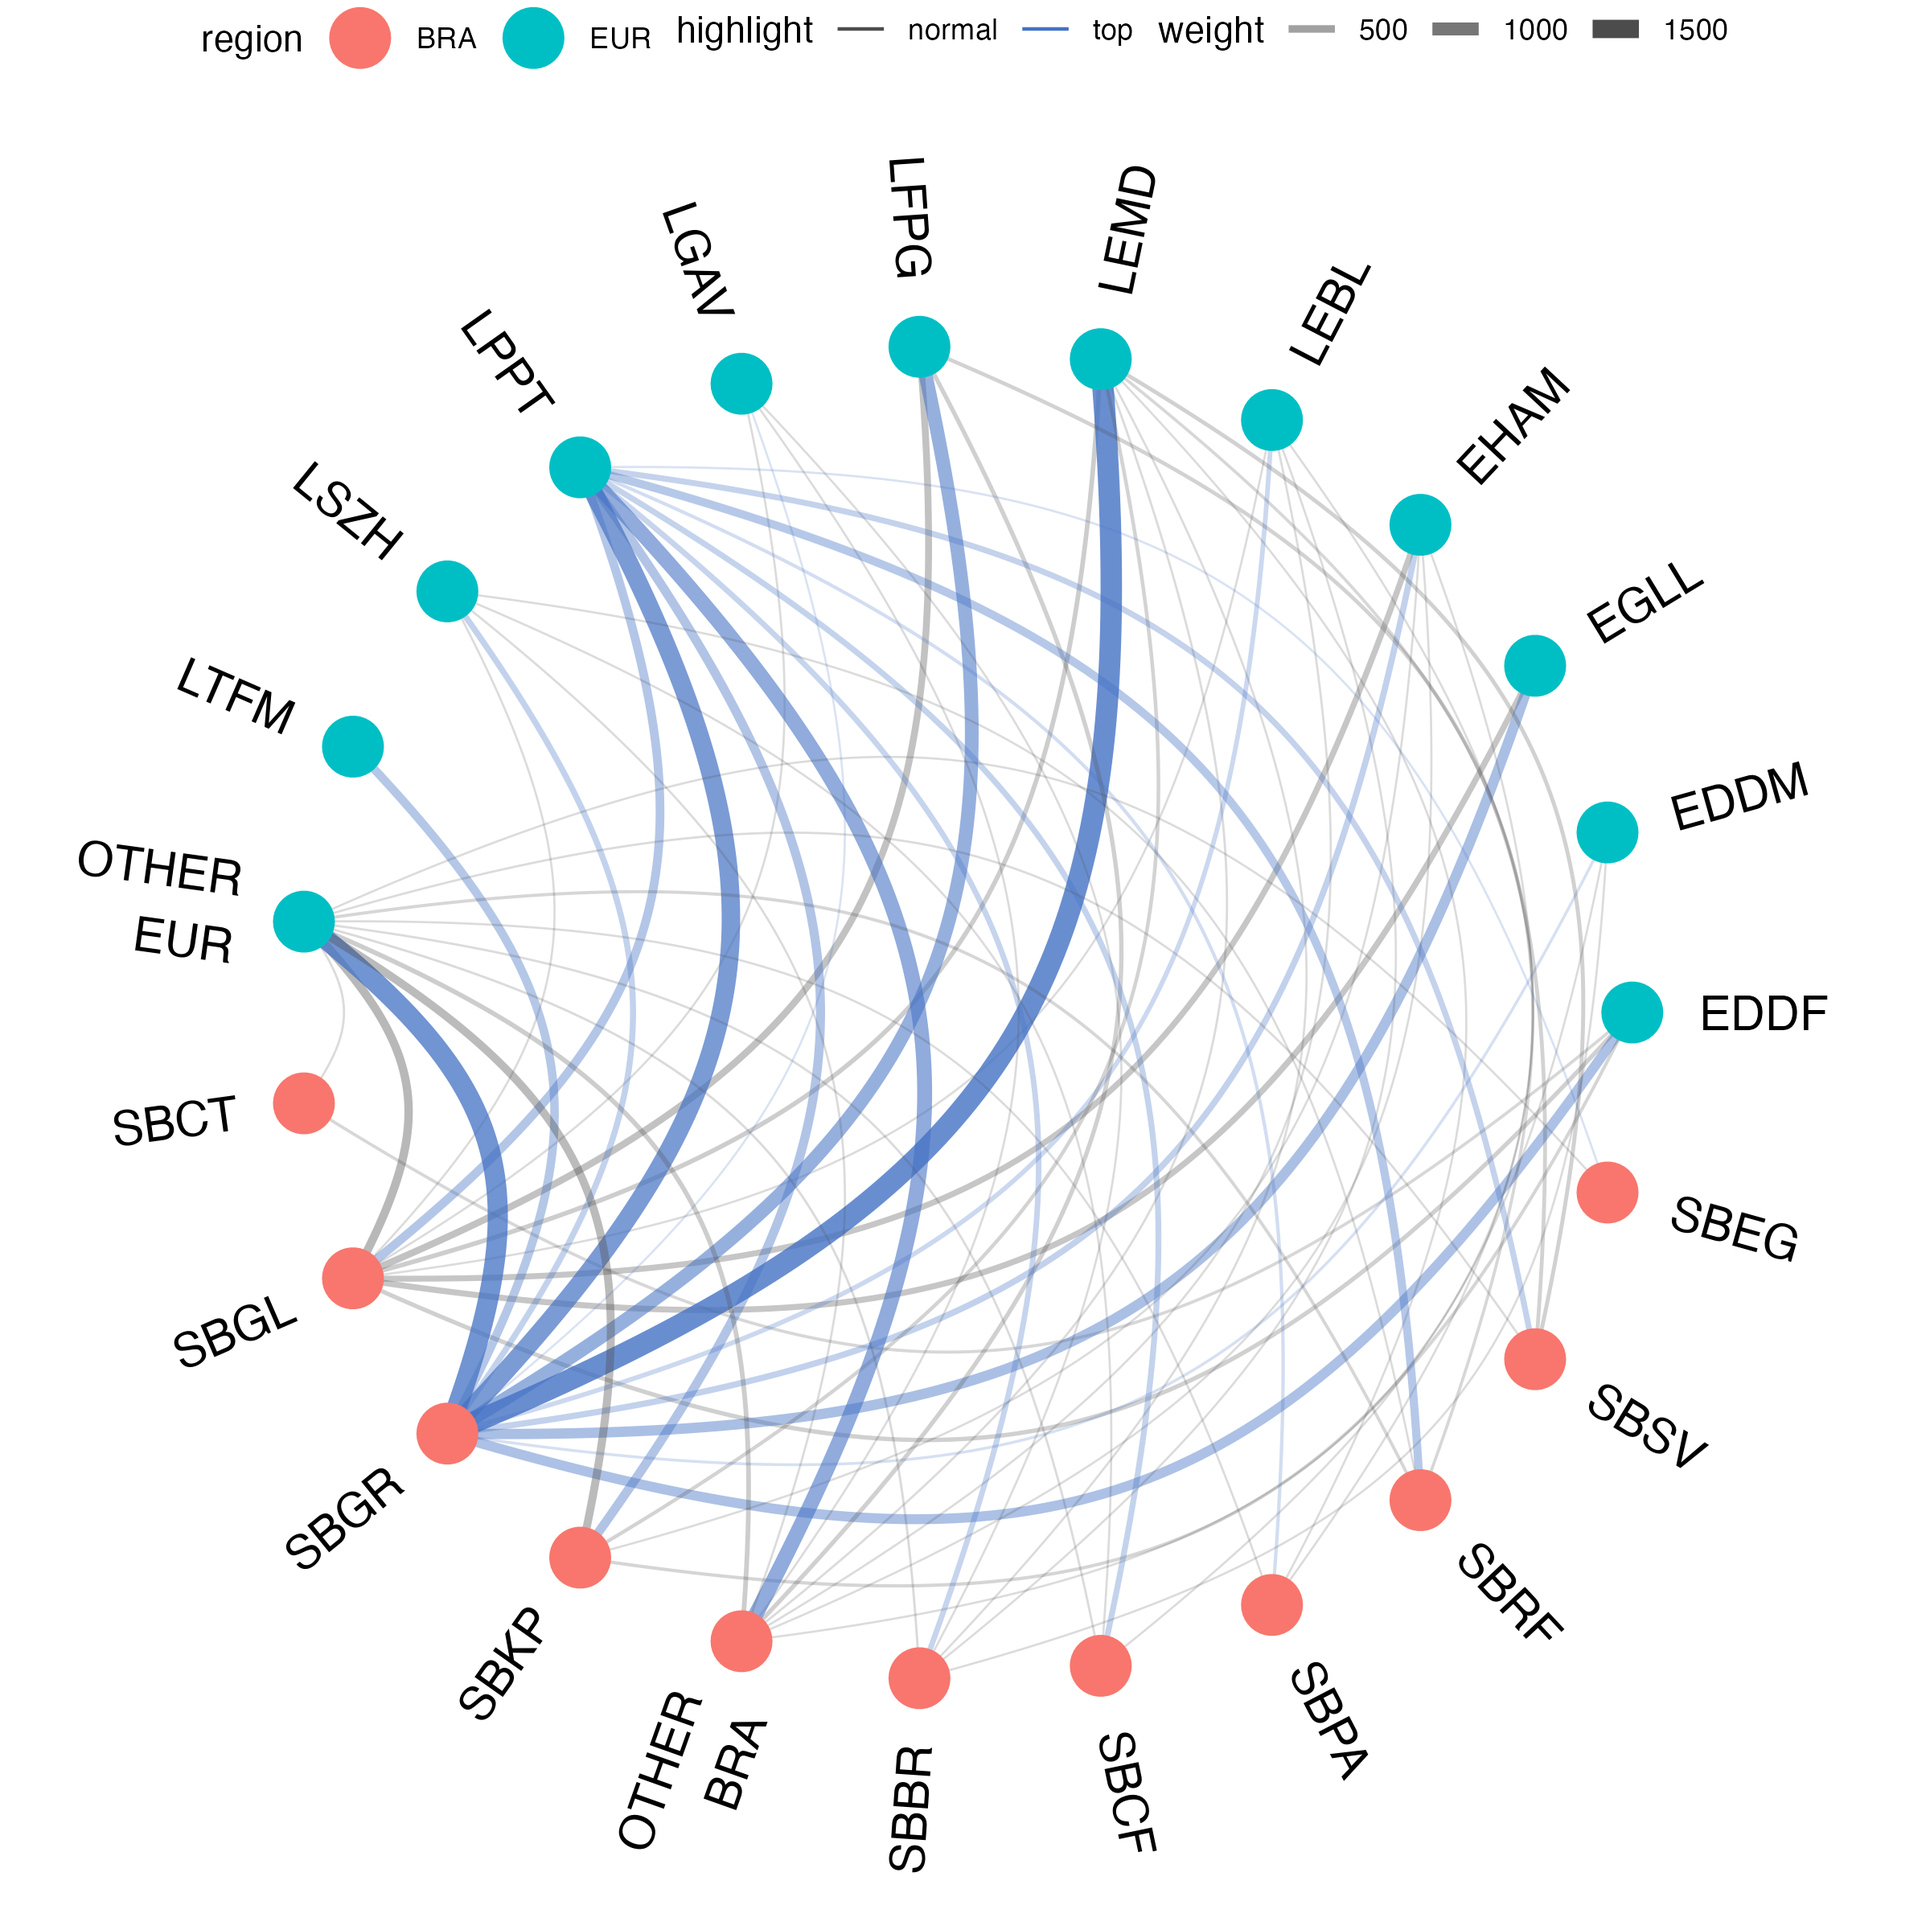
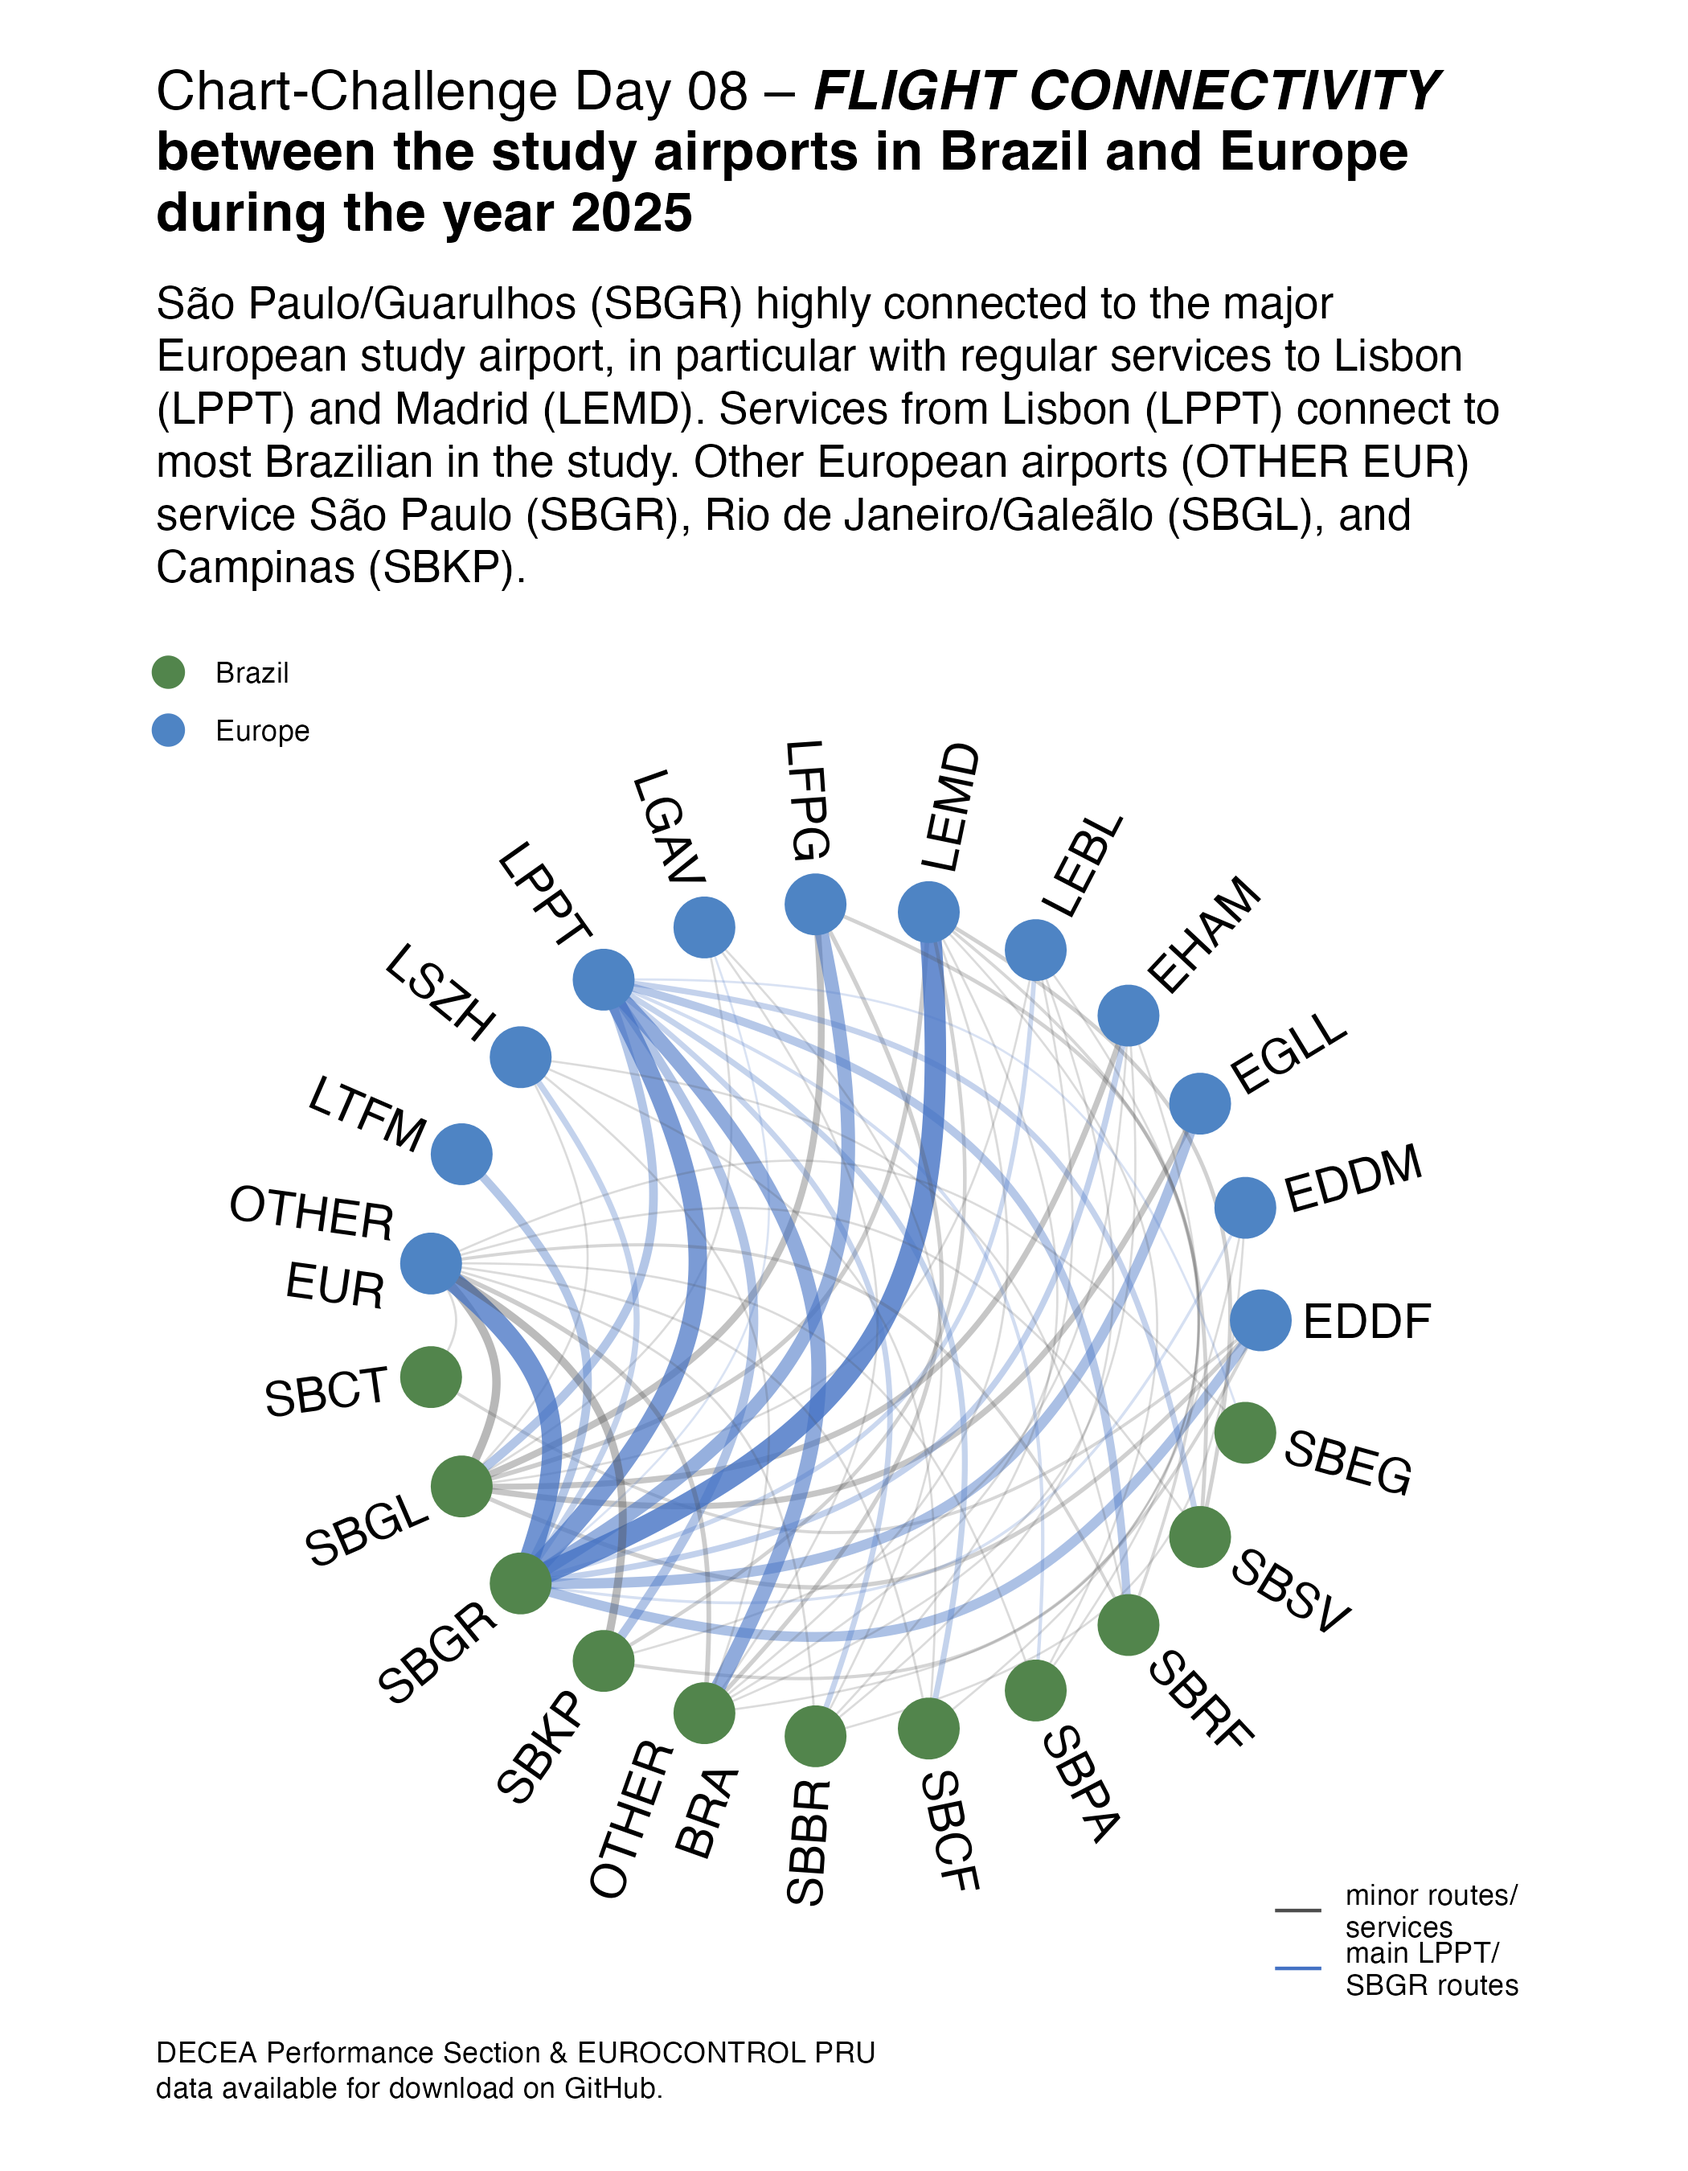
Day 08 - circular - final version

diff --git a/README.md b/README.md
@@ -61,3 +61,13 @@ TODO - Some explanatory notes to follow
 ![Day-03 contribution, mosaic](figures/day03-mosaic.jpeg)
 
 ### Day 4 - "slope"
+
+
+### Day 8 - "circular"
+
+We show the total amount of flights between the study airports in both regions.
+As we were unable to make a chord diagram work, we reverted to {ggraph} using a **circular** presentation of the network nodes.
+Links are depicted with *geom_arc()*.
+The annotations use the standard tools provided by {ggtext} and {showtext}.
+
+![Day-08 contribution](figures/day08-circular.png)
